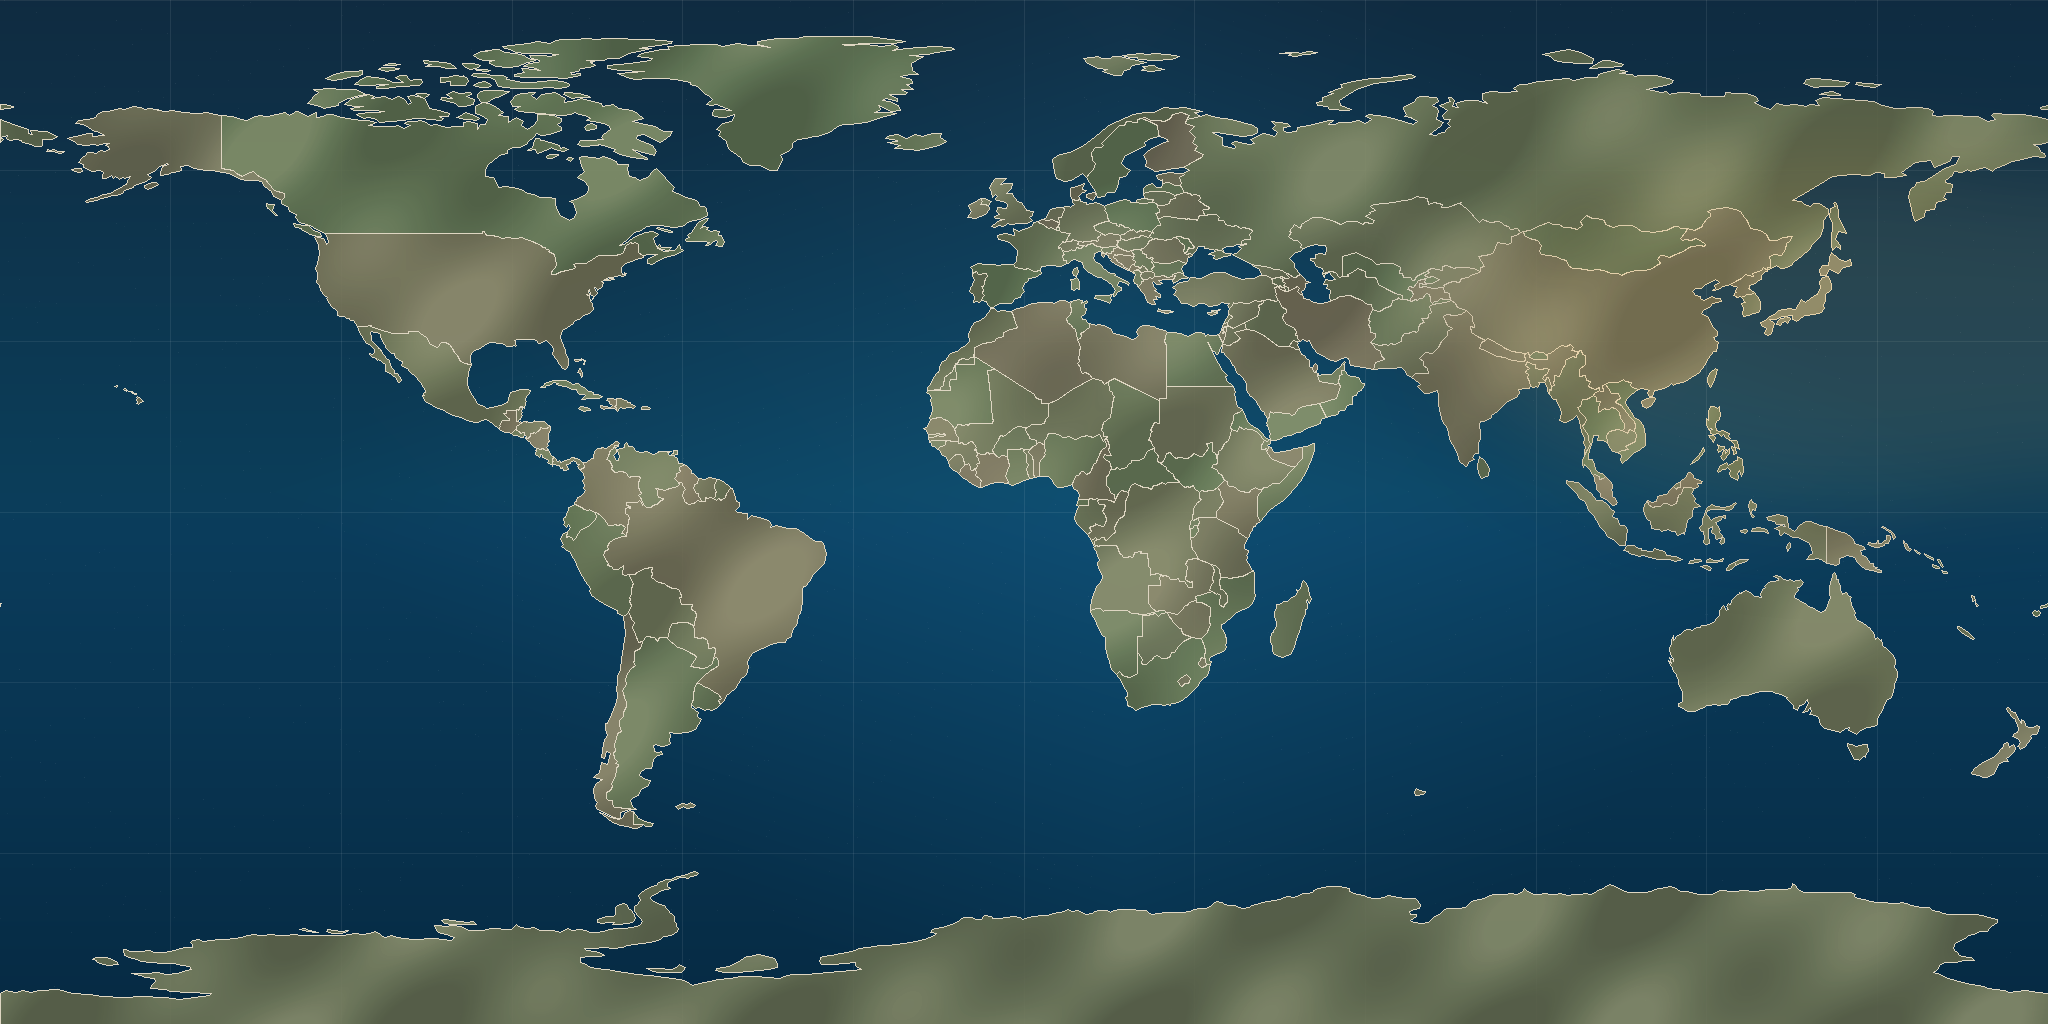
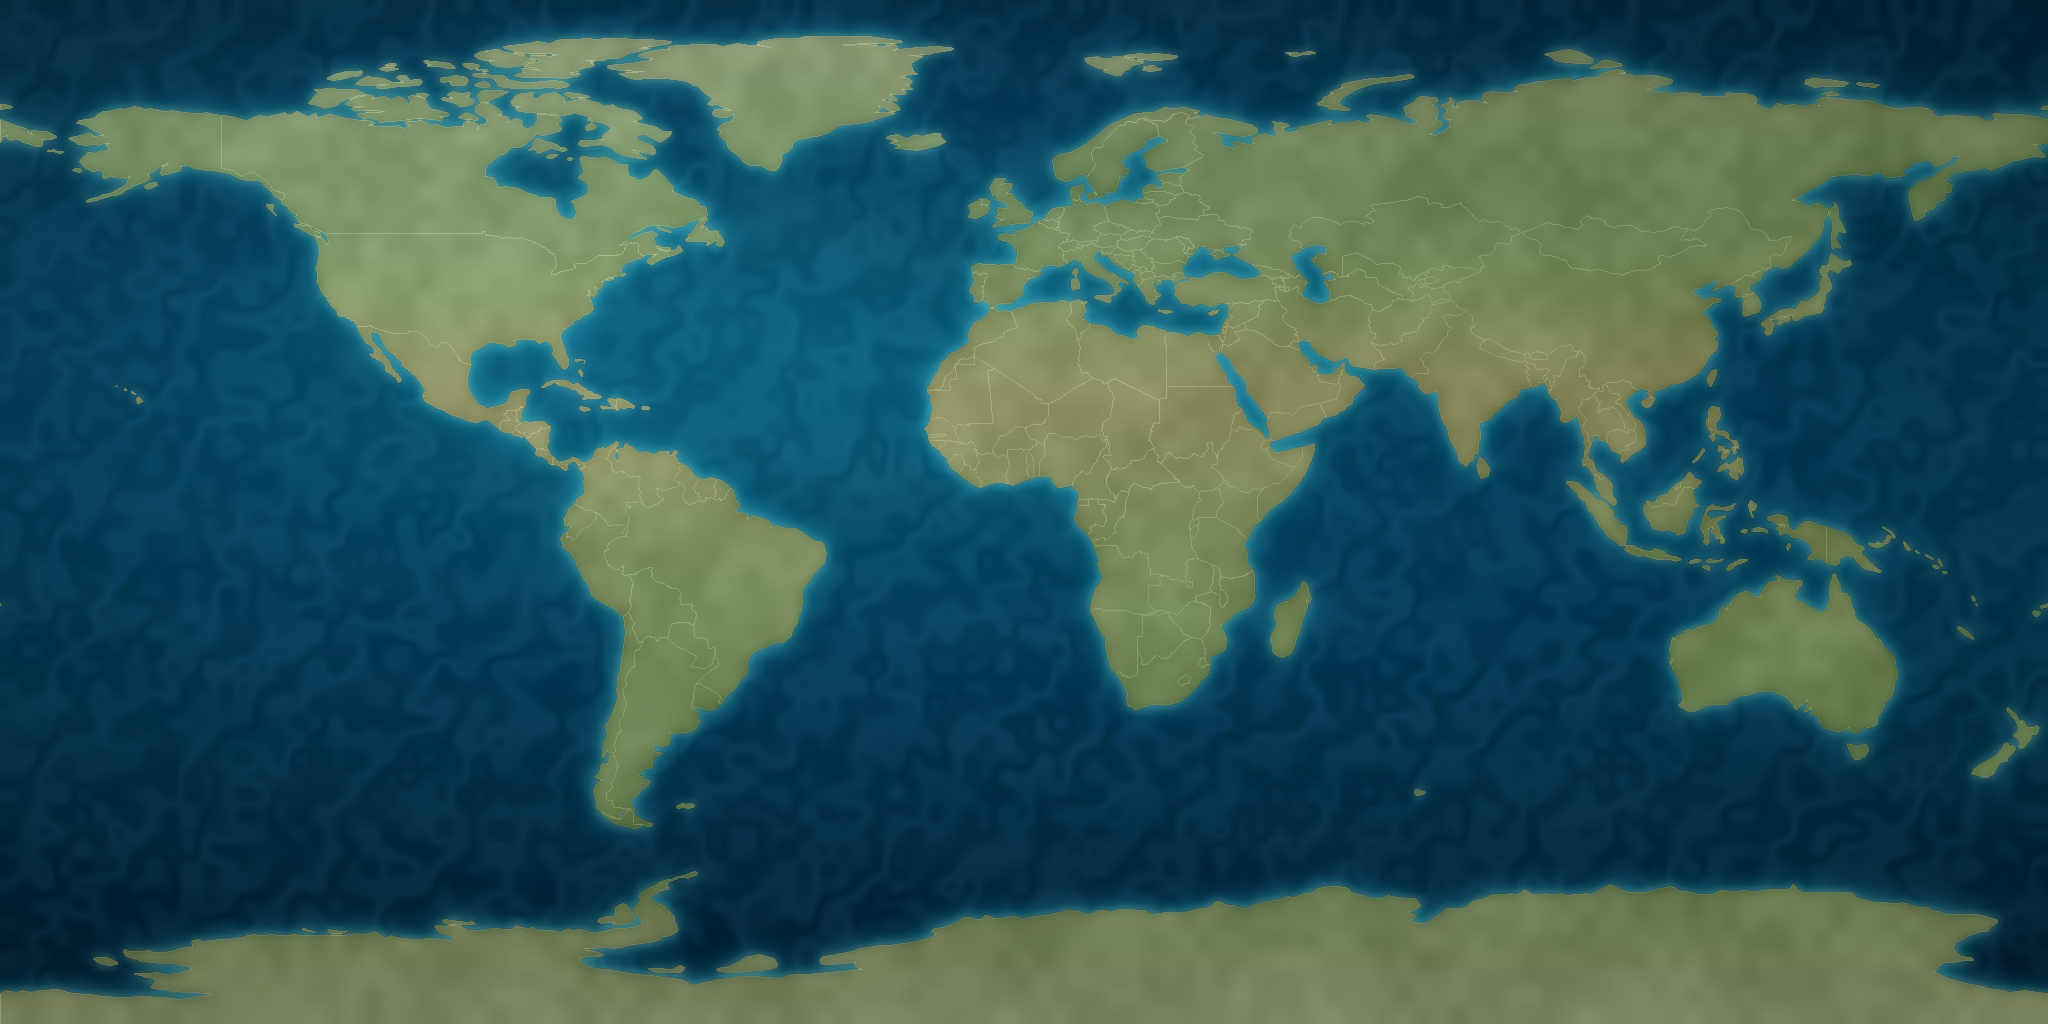
Add 2.5D globe-style world map polish

diff --git a/lib/game/ui/widgets/world_conquest_map.dart b/lib/game/ui/widgets/world_conquest_map.dart
@@ -598,50 +598,100 @@ class _MapDepthPainter extends CustomPainter {
 
   @override
   void paint(Canvas canvas, Size size) {
+    final rect = Offset.zero & size;
     final oceanWash = Paint()
       ..shader = LinearGradient(
         begin: Alignment.topCenter,
         end: Alignment.bottomCenter,
         colors: <Color>[
-          const Color(0x0018D3F0),
-          const Color(0x22001C32),
-          const Color(0x33000410),
+          const Color(0x220FD9FF),
+          const Color(0x08001222),
+          const Color(0x3A00040E),
         ],
-      ).createShader(Offset.zero & size);
-    canvas.drawRect(Offset.zero & size, oceanWash);
+        stops: const <double>[0.0, 0.48, 1.0],
+      ).createShader(rect);
+    canvas.drawRect(rect, oceanWash);
 
-    final warmCommandLight = Paint()
+    final specularLight = Paint()
       ..shader = RadialGradient(
-        center: const Alignment(-0.42, -0.44),
-        radius: 0.78,
+        center: const Alignment(-0.35, -0.34),
+        radius: 0.58,
         colors: <Color>[
-          const Color(0x33F6D28B),
-          const Color(0x1018D3F0),
+          const Color(0x4A9EF7FF),
+          const Color(0x1CF3D18A),
           Colors.transparent,
         ],
-        stops: const <double>[0.0, 0.44, 1.0],
-      ).createShader(Offset.zero & size);
-    canvas.drawRect(Offset.zero & size, warmCommandLight);
+        stops: const <double>[0.0, 0.42, 1.0],
+      ).createShader(rect)
+      ..blendMode = BlendMode.screen;
+    canvas.drawRect(rect, specularLight);
 
     final gridPaint = Paint()
       ..style = PaintingStyle.stroke
-      ..strokeWidth = 0.55
-      ..color = Colors.white.withValues(alpha: 0.045);
-    const gridStep = 72.0;
-    for (var x = 0.0; x <= size.width; x += gridStep) {
-      canvas.drawLine(Offset(x, 0), Offset(x, size.height), gridPaint);
+      ..strokeWidth = math.max(0.42, size.width * 0.00022)
+      ..color = Colors.white.withValues(alpha: 0.040);
+    const divisions = 10;
+    for (var i = 1; i < divisions; i++) {
+      final t = i / divisions;
+      final x = size.width * t;
+      final bend = (t - 0.5) * size.height * 0.10;
+      final path = Path()
+        ..moveTo(x, 0)
+        ..cubicTo(
+          x - bend,
+          size.height * 0.28,
+          x + bend,
+          size.height * 0.72,
+          x,
+          size.height,
+        );
+      canvas.drawPath(path, gridPaint);
     }
-    for (var y = 0.0; y <= size.height; y += gridStep) {
-      canvas.drawLine(Offset(0, y), Offset(size.width, y), gridPaint);
+    for (var i = 1; i < 5; i++) {
+      final t = i / 5;
+      final y = size.height * t;
+      final curve = (t - 0.5) * size.height * 0.11;
+      final path = Path()
+        ..moveTo(0, y)
+        ..quadraticBezierTo(size.width * 0.5, y + curve, size.width, y);
+      canvas.drawPath(path, gridPaint);
     }
 
-    final vignette = Paint()
+    final rimRect = Rect.fromLTWH(
+      -size.width * 0.075,
+      -size.height * 0.335,
+      size.width * 1.15,
+      size.height * 1.62,
+    );
+    final rimGlow = Paint()
+      ..style = PaintingStyle.stroke
+      ..strokeWidth = math.max(8, size.width * 0.006)
+      ..color = const Color(0xFF45D9FF).withValues(alpha: 0.12)
+      ..maskFilter = const ui.MaskFilter.blur(ui.BlurStyle.normal, 10);
+    final rimLine = Paint()
+      ..style = PaintingStyle.stroke
+      ..strokeWidth = math.max(1.0, size.width * 0.00072)
+      ..color = const Color(0xFFB4F4FF).withValues(alpha: 0.30);
+    canvas.drawOval(rimRect, rimGlow);
+    canvas.drawOval(rimRect, rimLine);
+
+    final terminator = Paint()
       ..shader = RadialGradient(
-        radius: 0.78,
-        colors: <Color>[Colors.transparent, const Color(0xAA010611)],
+        center: const Alignment(0.72, 0.76),
+        radius: 0.95,
+        colors: <Color>[Colors.transparent, const Color(0xB8000308)],
+        stops: const <double>[0.48, 1.0],
+      ).createShader(rect);
+    canvas.drawRect(rect, terminator);
+
+    final edgeVignette = Paint()
+      ..shader = RadialGradient(
+        center: const Alignment(-0.10, -0.08),
+        radius: 0.94,
+        colors: <Color>[Colors.transparent, const Color(0x8A000612)],
         stops: const <double>[0.64, 1.0],
-      ).createShader(Offset.zero & size);
-    canvas.drawRect(Offset.zero & size, vignette);
+      ).createShader(rect);
+    canvas.drawRect(rect, edgeVignette);
   }
 
   @override

diff --git a/assets/maps/README.md b/assets/maps/README.md
@@ -2,10 +2,12 @@
 
 These assets provide the real-world visual board for Chroma Conquest.
 
-- `world_base.png`: optimized raster base map generated from Natural Earth 110m Admin 0 country boundaries.
+- `world_base.png`: optimized 2048x1024 2.5D raster base map generated from the Natural Earth-derived board mask with procedural ocean depth, coastline glow, and land relief styling.
 - `world_borders.svg`: optimized SVG border overlay generated from the same Natural Earth country boundaries.
 
 Natural Earth data is public domain. Source dataset:
 https://naturalearth.s3.amazonaws.com/110m_cultural/ne_110m_admin_0_countries.zip
 
-The Flutter map renders these files as fixed layers and draws gameplay ownership, selection highlights, and army labels over them. To improve final art quality later, replace `world_base.png` and/or `world_borders.svg` with matching 2:1 world-map assets using the same normalized coordinate system.
+The Flutter map renders these files as fixed layers and draws gameplay ownership, selection highlights, route cues, and army labels over them. The current implementation intentionally keeps the 2:1 normalized coordinate system so territory hit testing and gameplay data remain stable while the board reads as a premium 2.5D command-map/globe surface.
+
+To improve final art quality later, replace `world_base.png` and/or `world_borders.svg` with matching 2:1 world-map assets using the same normalized coordinate system.
